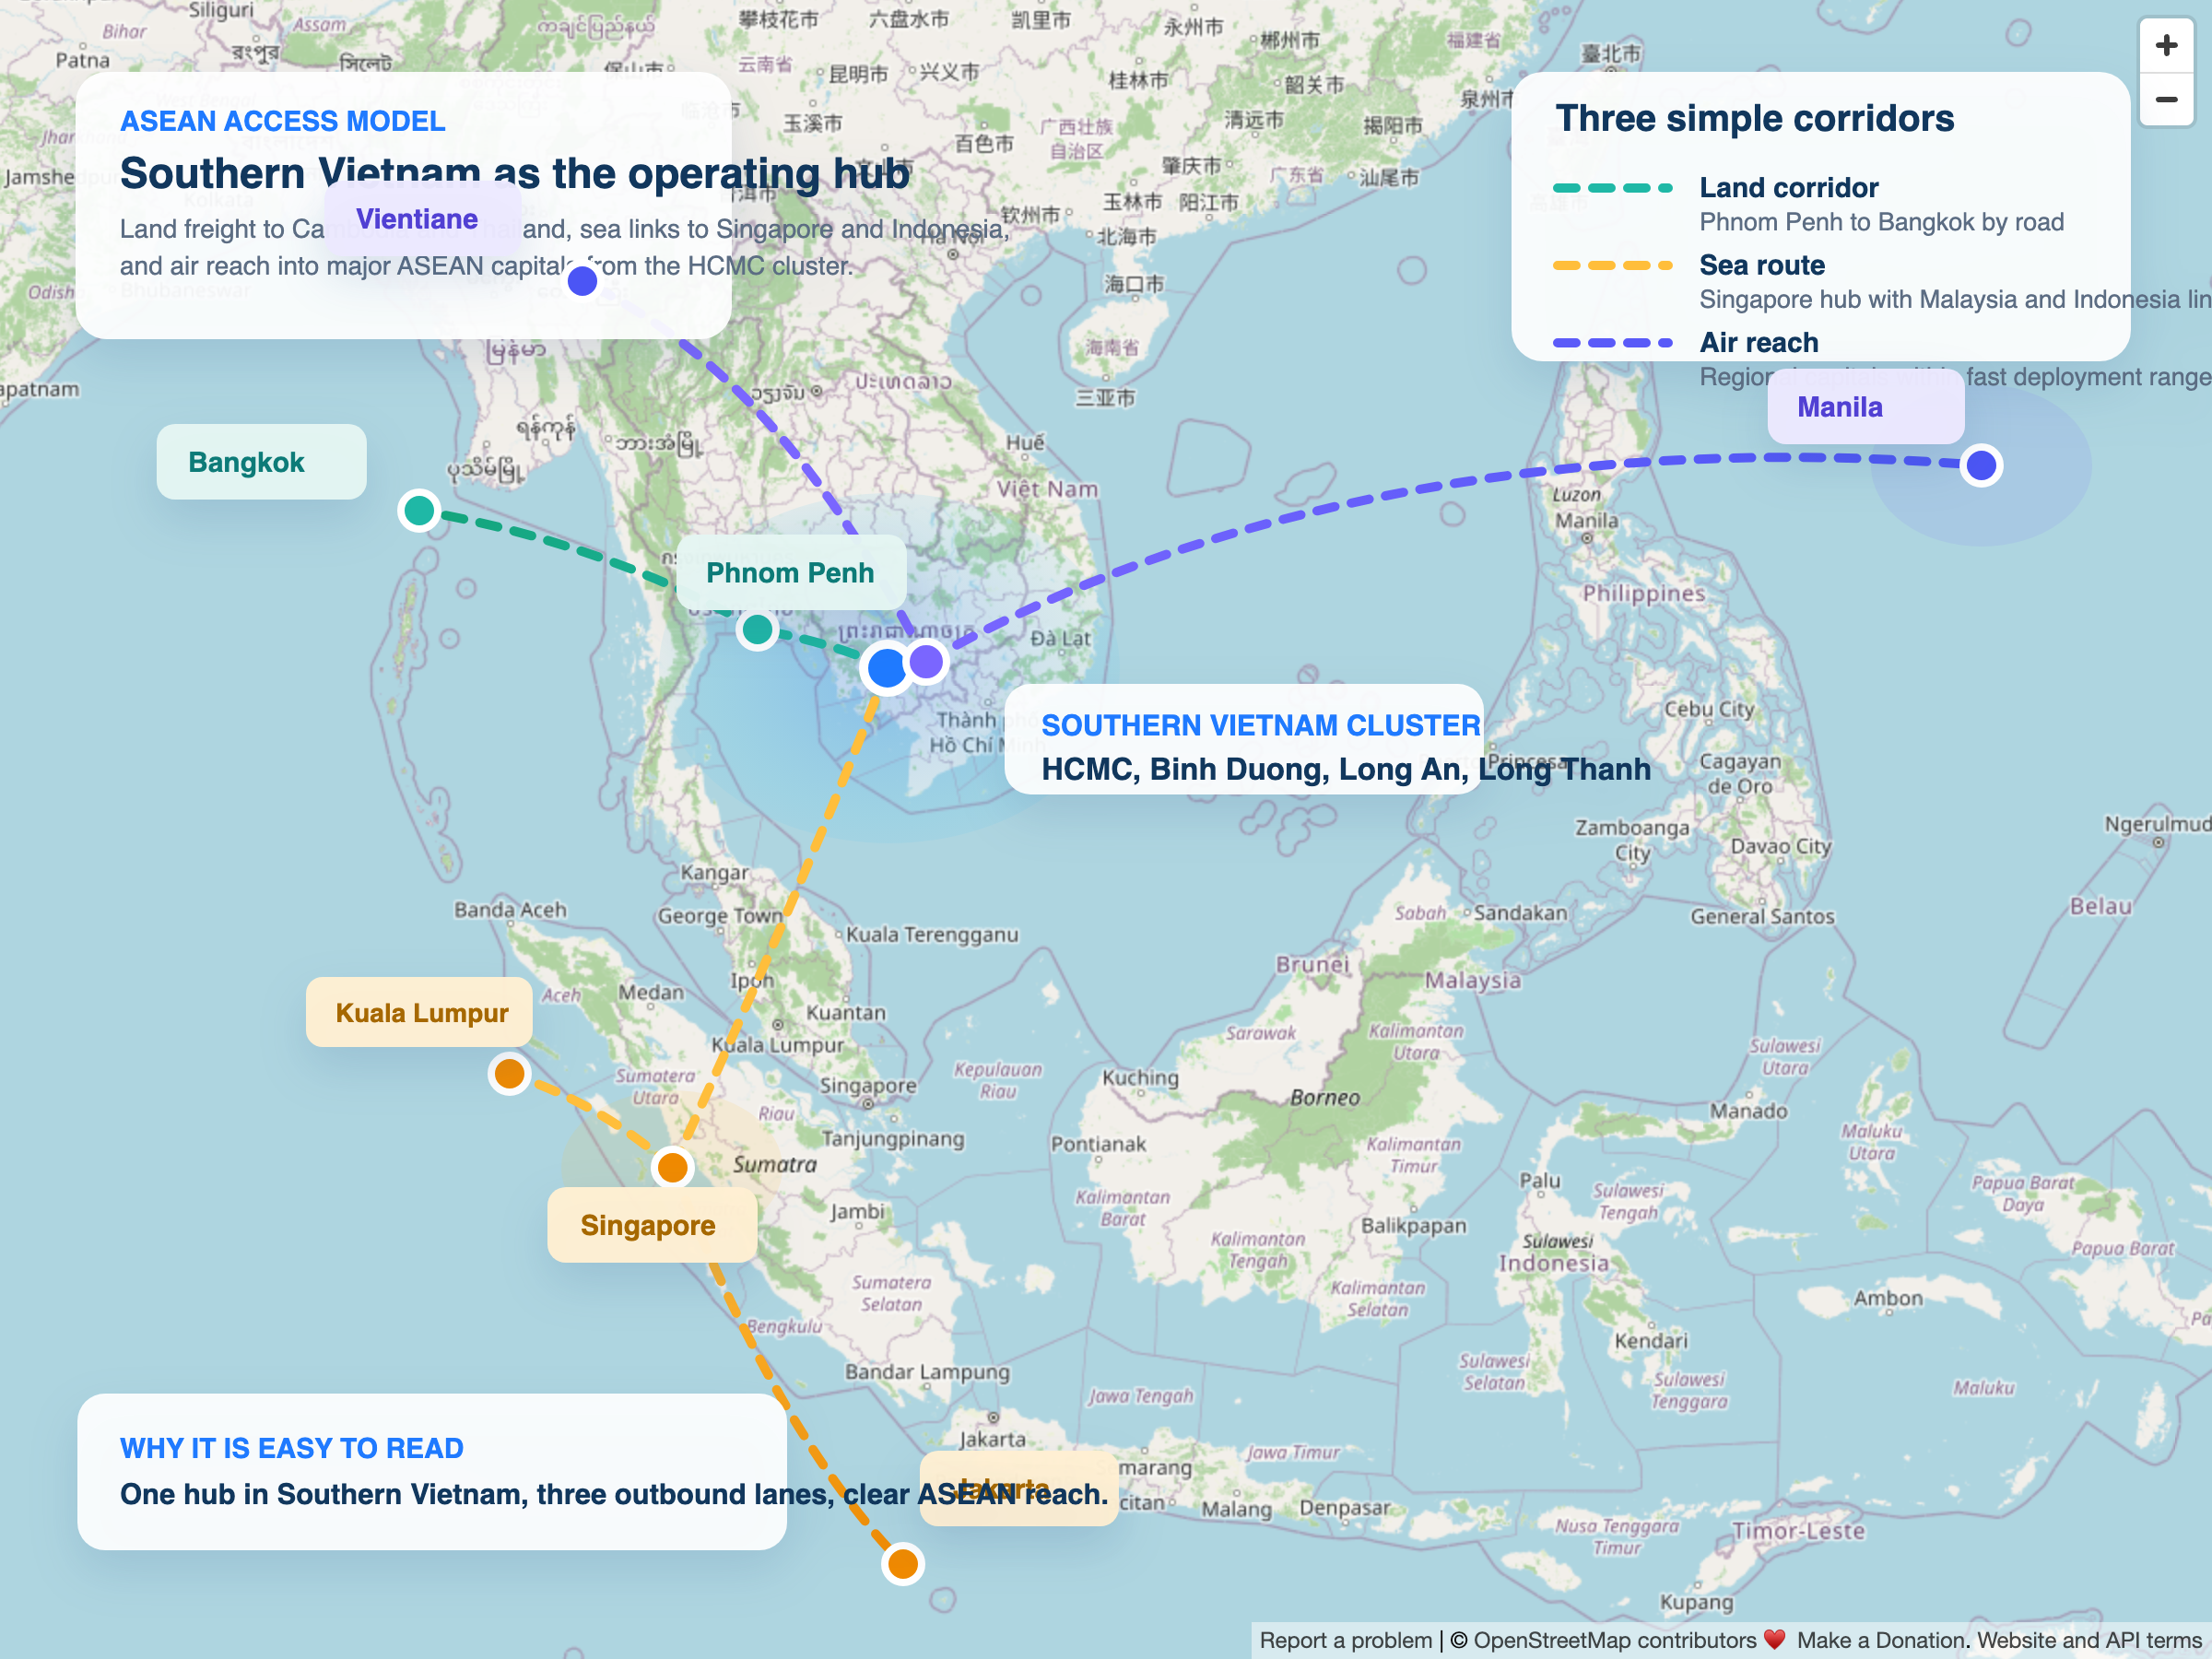
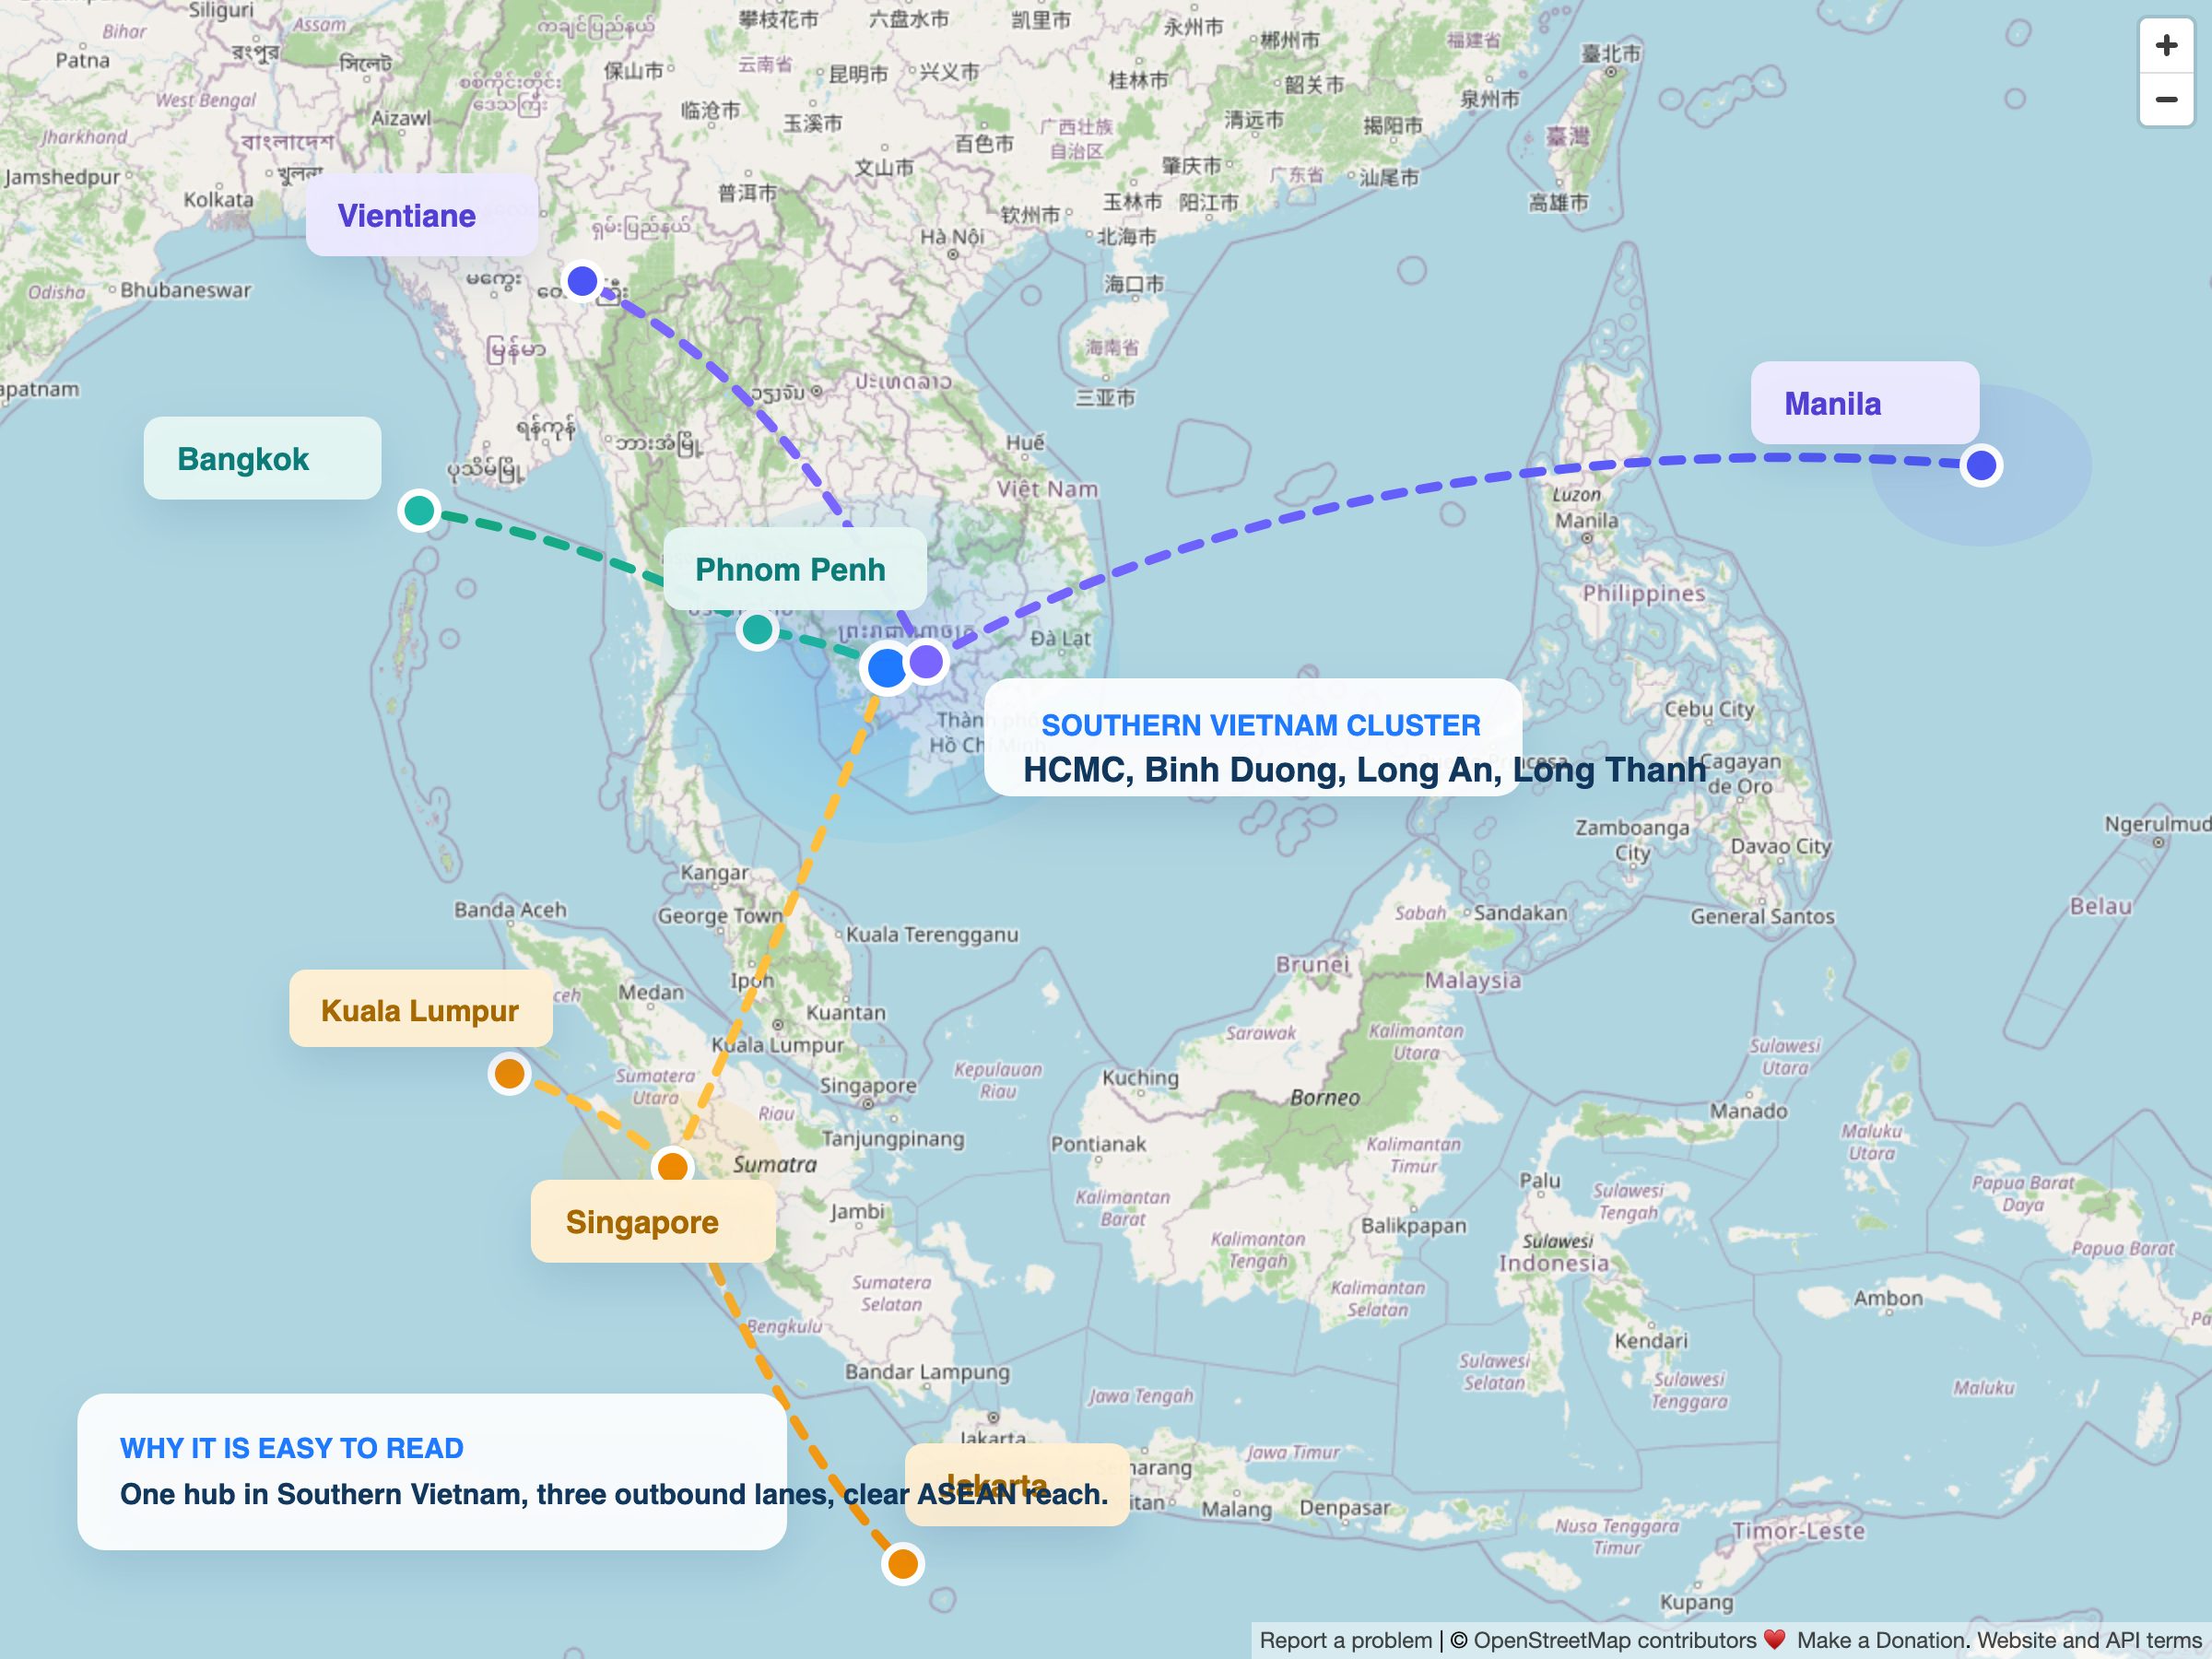
up

diff --git a/slides.md b/slides.md
@@ -11,21 +11,21 @@ mdc: false
 drawings:
   enabled: false
 ---
-# UAV Manufacturing
+# ASEAN UAV Manufacturing Base
 
-Ho Chi Minh City, May 1, 2026
+Ho Chi Minh City, May 2026
 
-A modern civilian UAV manufacturing platform for agriculture, industry, rescue operations, and education.
+A Vietnam manufacturing base that extends an existing China drone platform into Vietnam and the wider ASEAN market.
 
-- **Year 1 Revenue**  
+- **Investment Ask**  
+  `5-8M USD`  
+  To launch a Vietnam assembly, testing, and service base
+- **12-Month Target**  
+  `Factory commissioned`  
+  First deliveries in Vietnam and pilot ASEAN channels live
+- **First Full-Year Revenue**  
   `8M USD`  
-  Around 1,200 UAV units at roughly 6,500 USD ASP
-- **Growth Target**  
-  `20% / year`  
-  Scaling toward 13.8M USD by year 4
-- **Break-even**  
-  `18-24 months`  
-  Supported by product, service, and software revenue
+  Built on proven platforms, local assembly, and service revenue
 
 ---
 layout: two-cols
@@ -33,22 +33,22 @@ class: thesis
 layoutClass: thesis-layout
 ---
 
-## Why This Project
+## Why This Expansion Makes Sense
 
-> Right project. Right market. Right timing.
+> Not a replacement for China. A second base for ASEAN.
 
-Vietnam concentrates the five key conditions for a UAV factory into one market.
+Vietnam gives your group a lower-risk way to expand regional drone manufacturing without rebuilding core capability from zero.
 
 ### Why it works
 
-- **Policy support**  
-  National industry alignment
-- **Cost + talent**  
-  Affordable build + skilled labor
-- **Demand gap**  
-  Demand grows beyond local supply
-- **ASEAN launchpad**  
-  Fast route into regional markets
+- **Reuse existing platform**  
+  Transfer mature drone models, QA discipline, and supplier know-how
+- **Vietnam cost + access**  
+  Competitive labor, industrial zones, and faster local market entry
+- **ASEAN commercial bridge**  
+  Serve Vietnam first, then expand into nearby regional channels
+- **Risk diversification**  
+  Add a second operating base outside a single-country footprint
 
 ::right::
 
@@ -58,15 +58,15 @@ Vietnam concentrates the five key conditions for a UAV factory into one market.
 class: dual-map
 ---
 
-## Factory Master Plan
+## Vietnam Hub Strategy
 
-Southern Vietnam works as the manufacturing base inside Vietnam and the gateway into ASEAN, so the local logistics cluster and regional reach should be shown together.
+Southern Vietnam is the right base for final assembly, testing, localization, and ASEAN distribution because it combines ports, airports, supplier density, and outbound reach in one operating zone.
 
 ### Southern Vietnam Cluster
 
 ![Vietnam logistics map](./public/images/osm-south-vietnam-baked.png)
 
-### ASEAN Connectivity
+### ASEAN Reach
 
 ![ASEAN connectivity map](./public/images/osm-asean-baked.png)
 
@@ -76,18 +76,18 @@ class: business
 layoutClass: business-layout
 ---
 
-## Business Model
+## Operating Model
 
-A scalable UAV platform built to win export markets first.
+A staged China-plus-Vietnam model reduces startup risk, shortens time to market, and builds regional upside in phases.
 
 ### Model highlights
 
-- **70% export target**  
-  Regional markets drive the revenue mix
-- **Shared factory platform**  
-  Four UAV lines on one operating base
-- **Layered monetization**  
-  Hardware, service, software, accessories
+- **Phase 1: transfer and assemble**  
+  Core modules from China, final assembly and QA in Vietnam
+- **Phase 2: local service revenue**  
+  Maintenance, training, spare parts, batteries, and support contracts
+- **Phase 3: regional scale-up**  
+  Vietnam localization, channel partners, and software or data upsell
 
 ::right::
 
@@ -97,7 +97,7 @@ A scalable UAV platform built to win export markets first.
 class: factory-gantt
 ---
 
-## Project Timeline
+## 12-Month Launch Plan
 
 ```mermaid
 %%{init: {
@@ -114,74 +114,74 @@ class: factory-gantt
   }
 }}%%
 gantt
-    title 12-Month Project Execution Timeline
+    title 12-Month Vietnam Launch Timeline
     dateFormat  YYYY-MM-DD
     axisFormat  %b
     tickInterval 1month
-    section Project setup
-    Market research + feasibility   :done, research, 2026-05-01, 2026-06-15
-    Legal setup + paperwork         :active, paperwork, 2026-05-15, 2026-07-15
-    Licensing + approvals           :permit, 2026-06-01, 2026-09-15
+    section Setup
+    Investment decision + entity setup :done, entity, 2026-05-01, 2026-06-15
+    Site selection + lease + design    :active, site, 2026-05-15, 2026-07-31
+    Licensing + regulatory work         :permit, 2026-06-01, 2026-09-30
 
-    section Factory rollout
-    Site selection + design         :site, 2026-07-01, 2026-08-15
-    Factory construction + fit-out  :build, 2026-08-01, 2026-11-30
-    Line install + commissioning    :commission, 2026-11-01, 2027-01-15
-    Pilot production + validation   :pilot, 2027-01-01, 2027-02-28
+    section Transfer and factory
+    Equipment procurement + fit-out     :equip, 2026-07-01, 2026-10-31
+    SOP transfer + line installation    :install, 2026-09-01, 2026-12-15
+    Pilot assembly + QA validation      :pilot, 2026-12-01, 2027-02-15
 
     section Commercial launch
-    Channel setup + pre-sales       :salesprep, 2026-11-01, 2027-01-31
-    First customer deliveries       :delivery, 2027-02-01, 2027-03-31
+    Reference projects + field trials   :trial, 2027-01-01, 2027-03-15
+    First deliveries in Vietnam         :delivery, 2027-02-01, 2027-03-31
+    ASEAN channel onboarding            :channel, 2027-01-15, 2027-04-15
 ```
 
-Target outcome: **licensed project, operating factory, and first commercial sales within 12 months**
+Target outcome: **a commissioned Vietnam base in 12 months, with first deliveries completed and the first full operating year targeted near 8M USD**
 
 ---
 layout: two-cols
 class: ops
 ---
 
-## Execution Engine
+## Execution Model
 
-> **1,200-1,500 UAVs per year**  
-> ASP ranges from 4,000 to 8,000 USD, supporting a year 1 target near 8M USD.
+> **China + Vietnam split**  
+> China provides platform leverage and supplier depth. Vietnam provides local execution and ASEAN access.
 
 
 
 ::right::
 
-### Team structure
+### Operating responsibilities
 
-- **R&D - 40 people**  
-  Embedded, control systems, and AI / vision
-- **Production - 50-60 people**  
-  Assembly, QC, calibration, and flight testing
-- **Business - 20-30 people**  
-  B2B sales, dealer channels, and pilot deployments
-- **Back office - 15-20 people**  
-  Finance, HR, supply chain, and procurement
+- **China base**  
+  Platform design, core electronics, QA templates, and supplier network
+- **Vietnam base**  
+  Final assembly, testing, localization, field service, and customer delivery
+- **Local team 120-150 people**  
+  Production, engineering support, business development, and back office
+- **Commercial sequence**  
+  Agriculture and industrial inspection first, then ASEAN distributors and partners
 
 ---
 class: roadmap
 ---
 
-## 5-Year Roadmap
+## 5-Year Growth Roadmap
 
-1. **Year 1 · Build and launch**  
-   Permits, factory fit-out, pilot line, and first deliveries  
+1. **Year 1 · Commission the Vietnam base**  
+   Legal setup, line install, pilot assembly, and first customer deliveries  
    `Milestone: factory live`
-2. **Year 2 · Ramp Vietnam**  
-   Higher output, tighter QA, and service network coverage  
-   `Milestone: domestic scale`
-3. **Year 3 · Export ASEAN**  
-   Thailand, Indonesia, the Philippines, and nearby channels  
-   `Milestone: >70% export mix`
-4. **Year 4 · Add platform layers**  
-   Software, training, accessories, and service contracts  
-   `Milestone: recurring revenue`
-5. **Year 5 · Scale hub model**  
-   More capacity, more localization, and ASEAN hub positioning  
-   `Milestone: regional hub`
+2. **Year 2 · Prove the Vietnam model**  
+   Reference customers, service network, and stable domestic operations  
+   `Milestone: repeatable domestic sales`
+3. **Year 3 · Scale ASEAN exports**  
+   Cambodia, Thailand, Indonesia, and nearby partner channels  
+   `Milestone: export mix 30-40%`
+4. **Year 4 · Improve margin and recurring revenue**  
+   More localization, maintenance plans, training, and software contracts  
+   `Milestone: stronger operating economics`
+5. **Year 5 · Run a dual-base regional platform**  
+   Vietnam as ASEAN hub, China as core platform and supply anchor  
+   `Milestone: export-led regional manufacturing`
 
 ---
 layout: two-cols
@@ -191,55 +191,57 @@ class: capital
 ## Capital Plan
 
 > **5-8M USD**  
-> Initial capital to commission the plant, launch the first UAV lines, and fund the first commercial cycle.
+> To open a de-risked Vietnam manufacturing base built on an existing China drone platform.
 
 ### Funding focus
 
-- **Plant + machinery**  
-  `2.5M`
-- **R&D + people**  
-  `2.5M`
-- **Go-to-market + working capital**  
-  `1-3M`
+- **Factory + line setup**  
+  `2-3M`
+- **Working capital + imported kits/components**  
+  `1.5-2.5M`
+- **Team, certification, and channel build**  
+  `1.5-2.5M`
 
 ::right::
 
-### Revenue ramp
+### What this unlocks in 24 months
 
-**Year 1** `8M`  
-**Year 2** `9.6M`  
-**Year 3** `11.5M`  
-**Year 4** `13.8M`
-
-Export-led growth with break-even targeted in **18-24 months**
+- **Factory commissioned**  
+  Vietnam assembly, QA, testing, and service base
+- **Commercial proof**  
+  Reference customers in Vietnam and first ASEAN channel partners
+- **Strategic value**  
+  A second manufacturing base for your group outside China
+- **Financial target**  
+  Around `8M USD` in the first full operating year
 
 ---
 layout: two-cols
 class: market
 ---
 
-## Go To Market
+## Why This Is Attractive to Your Group
 
-### Priority channels
+### Strategic fit
 
-- **Agriculture**  
-  Partner with farms and aquaculture operators, then deploy live field demos
-- **Industry**  
-  Inspection for factories, utilities, mapping, and infrastructure monitoring
-- **Government**  
-  Rescue, firefighting, and specialized public safety missions
-- **Education**  
-  Universities, STEM centers, and hands-on UAV learning programs
+- **Extend, not replace China**  
+  Keep core platform and supplier strengths where they already work
+- **Open Vietnam faster**  
+  Local presence improves hiring, customer trust, and market access
+- **Build ASEAN optionality**  
+  Vietnam becomes the bridge into nearby regional channels
+- **Create valuation upside**  
+  A dual-base model is stronger than a single-country manufacturing footprint
 
 ::right::
 
 ### Risk control
 
-- **Competition from DJI**  
-  Focus on niche markets, local deployment speed, and competitive pricing
-- **Technology stability**  
-  Expand field testing, calibration discipline, and pilot feedback loops
-- **UAV regulation**  
-  Work early with regulators and standardize operating procedures
-- **Supply chain risk**  
-  Build multi-source procurement and hold stock for critical components
+- **Start with proven platforms**  
+  No need to fund product invention from zero on day one
+- **Localize in stages**  
+  Begin with transfer and assembly, then deepen sourcing over time
+- **Validate with reference customers**  
+  Win early proof before committing aggressive scale capex
+- **Keep supply flexibility**  
+  Use China supply depth first and expand local sourcing selectively